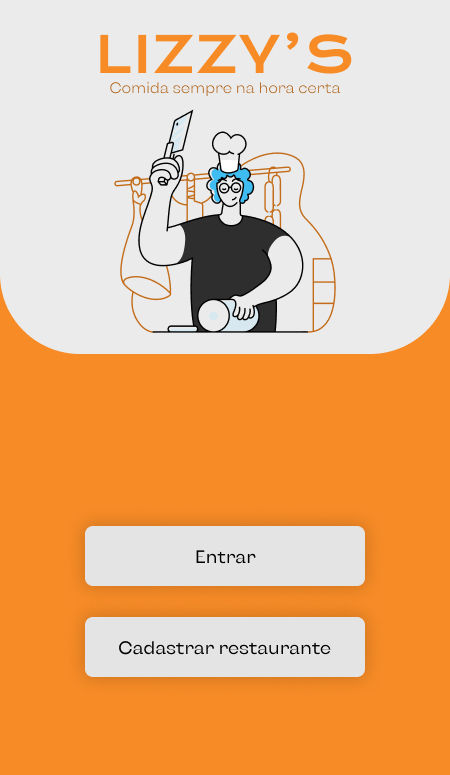
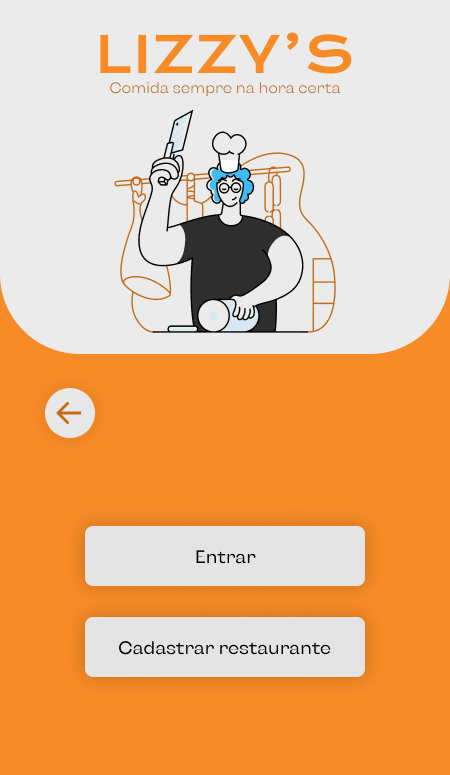
atualizando

Changed region(s): [[0.0933, 0.4955, 0.2178, 0.5884]]

diff --git a/src/EntrarUser.java b/src/EntrarUser.java
@@ -1,7 +1,5 @@
-import Components.Button;
-import Components.Input;
-import Components.Password;
-import Components.Tela;
+import Components.*;
+
 import java.awt.event.ActionEvent;
 import java.awt.event.ActionListener;
 
@@ -12,10 +10,17 @@ public class EntrarUser extends Tela {
         Button btnEntrarUser = new Button();
         Input cpfLogin = new Input();
         Password senhaUserLogin = new Password();
+        ButtonVoltar btnVoltar = new ButtonVoltar();
 
         btnEntrarUser.setBounds(85,627,280,60);
         cpfLogin.setBounds(55,310,350,50);
         senhaUserLogin.setBounds(55,429,342,50);
+        btnVoltar.setLocation(24,18);
+
+        getContentPane().add(btnEntrarUser);
+        getContentPane().add(cpfLogin);
+        getContentPane().add(senhaUserLogin);
+        getContentPane().add(btnVoltar);
 
         btnEntrarUser.addActionListener(new ActionListener() {
             @Override
@@ -39,12 +44,14 @@ public class EntrarUser extends Tela {
                 System.out.println(cpf + senhaUser);
             }
         });
-        getContentPane().add(btnEntrarUser);
-        getContentPane().add(cpfLogin);
-        getContentPane().add(senhaUserLogin);
+
+        btnVoltar.addActionListener(e -> {
+            SelUser selUser = new SelUser();
+            selUser.setVisible(true);
+            System.out.println("to voltando pra tela anterior");
+            dispose();
+        });
     }
 
-    public static void main(String[] args) {
-        new EntrarUser();
-    }
+    public static void main(String[] args) { new EntrarUser(); }
 }

diff --git a/src/EntrarRes.java b/src/EntrarRes.java
@@ -1,7 +1,4 @@
-import Components.Button;
-import Components.Input;
-import Components.Password;
-import Components.Tela;
+import Components.*;
 
 import java.awt.event.ActionEvent;
 import java.awt.event.ActionListener;
@@ -11,13 +8,19 @@ public class EntrarRes extends Tela {
         super("src//imagens//entrarRes.jpg");
 
         Button btnEntrarRes = new Button();
-        btnEntrarRes.setBounds(85,627,280,60);
-//        cadRes.restaurantes.set(i, restaurante);
         Input cnpjLogin = new Input();
         Password senhaRestauranteLogin = new Password();
+        ButtonVoltar btnVoltar = new ButtonVoltar();
 
         cnpjLogin.setBounds(55,310,350,50);
         senhaRestauranteLogin.setBounds(55,429,342,50);
+        btnEntrarRes.setBounds(85,627,280,60);
+        btnVoltar.setLocation(24,18);
+
+        getContentPane().add(btnEntrarRes);
+        getContentPane().add(cnpjLogin);
+        getContentPane().add(senhaRestauranteLogin);
+        getContentPane().add(btnVoltar);
 
         btnEntrarRes.addActionListener(new ActionListener() {
             @Override
@@ -44,9 +47,12 @@ public class EntrarRes extends Tela {
             }
         });
 
-        getContentPane().add(btnEntrarRes);
-        getContentPane().add(cnpjLogin);
-        getContentPane().add(senhaRestauranteLogin);
+        btnVoltar.addActionListener(e -> {
+            selRes selRes = new selRes();
+            selRes.setVisible(true);
+            System.out.println("to voltando pra tela anterior");
+            dispose();
+        });
 
     }
 

diff --git a/src/selRes.java b/src/selRes.java
@@ -1,14 +1,24 @@
 import Components.Button;
+import Components.ButtonVoltar;
 import Components.Tela;
 
 public class selRes extends Tela {
     public selRes(){
         super("src//imagens//selRes.jpg");
+        // nessa tela o restaurante pode escolher entre cadastrar um novo
+        // restaurante ou se já cadastrou entrar na conta
 
         Button btnEntrarSelRes = new Button();
-        btnEntrarSelRes.setBounds(85,509,280,65);
         Button btnCadRes = new Button();
+        ButtonVoltar btnVoltar = new ButtonVoltar();
+
         btnCadRes.setBounds(85,600,280,65);
+        btnEntrarSelRes.setBounds(85,509,280,65);
+        btnVoltar.setLocation(45,388);
+
+        getContentPane().add(btnEntrarSelRes);
+        getContentPane().add(btnCadRes);
+        getContentPane().add(btnVoltar);
 
         btnEntrarSelRes.addActionListener(e -> {
             EntrarRes entrarRes = new EntrarRes();
@@ -24,11 +34,13 @@ public class selRes extends Tela {
             dispose();
         });
 
-        getContentPane().add(btnEntrarSelRes);
-        getContentPane().add(btnCadRes);
+        btnVoltar.addActionListener(e -> {
+            selEntrar selEntrar = new selEntrar();
+            selEntrar.setVisible(true);
+            System.out.println("to voltando pra tela anterior");
+            dispose();
+        });
     }
 
-    public static void main(String[] args) {
-        new selRes();
-    }
+    public static void main(String[] args) { new selRes(); }
 }

diff --git a/src/SelUser.java b/src/SelUser.java
@@ -1,14 +1,24 @@
 import Components.Button;
+import Components.ButtonVoltar;
 import Components.Tela;
 
 public class SelUser extends Tela {
     public SelUser(){
         super("src//imagens//selUser.jpg");
+        // nessa tela o usuario pode escolher entre cadastrar um novo
+        // usuario ou se já cadastrou entrar na conta
 
         Button btnEntrarSelUser = new Button();
-        btnEntrarSelUser.setBounds(85,509,280,65);
         Button btnCadUser = new Button();
+        ButtonVoltar btnVoltar = new ButtonVoltar();
+
         btnCadUser.setBounds(85,600,280,65);
+        btnEntrarSelUser.setBounds(85,509,280,65);
+        btnVoltar.setLocation(45,388);
+
+        getContentPane().add(btnEntrarSelUser);
+        getContentPane().add(btnCadUser);
+        getContentPane().add(btnVoltar);
 
         btnEntrarSelUser.addActionListener(e -> {
             EntrarUser entrarUser = new EntrarUser();
@@ -24,8 +34,12 @@ public class SelUser extends Tela {
             dispose();
         });
 
-        getContentPane().add(btnEntrarSelUser);
-        getContentPane().add(btnCadUser);
+        btnVoltar.addActionListener(e -> {
+            selEntrar selEntrar = new selEntrar();
+            selEntrar.setVisible(true);
+            System.out.println("to voltando pra tela anterior");
+            dispose();
+        });
     }
 
     public static void main(String[] args) {

diff --git a/src/selEntrar.java b/src/selEntrar.java
@@ -1,14 +1,21 @@
 import Components.Button;
+import Components.ButtonVoltar;
 import Components.Tela;
 
 public class selEntrar extends Tela {
     public selEntrar(){
         super("src//imagens//selEntrar.jpg");
+        // nessa tela a pessoa que esta usando o delivery pode selecionar se quer entrar
+        // como restaurante ou como usuario
 
         Button btnSelRes = new Button();
-        btnSelRes.setBounds(85,512,280,60);
         Button btnSelUser = new Button();
+
         btnSelUser.setBounds(85,600,280,60);
+        btnSelRes.setBounds(85,512,280,60);
+
+        getContentPane().add(btnSelRes);
+        getContentPane().add(btnSelUser);
 
         btnSelRes.addActionListener(e -> {
             selRes selRes = new selRes();
@@ -23,9 +30,6 @@ public class selEntrar extends Tela {
             System.out.println("Olá, estou indo para a próxima pagina");
             dispose();
         });
-
-        getContentPane().add(btnSelRes);
-        getContentPane().add(btnSelUser);
     }
 
     public static void main(String[] args) {

diff --git a/src/cadRes.java b/src/cadRes.java
@@ -8,7 +8,10 @@ public class cadRes extends Tela {
         Input posMapaRes = new Input();
         Password senhaRestaurante = new Password();
         Button btnAdicionarRes = new Button();
+
         ButtonVoltar btnVoltar = new ButtonVoltar();
+        btnVoltar.setLocation(24,18);
+        getContentPane().add(btnVoltar);
 
         inputNomeRes.setBounds(54,188,342,50);
         cnpj.setBounds(54,292,342,50);
@@ -16,13 +19,14 @@ public class cadRes extends Tela {
         senhaRestaurante.setBounds(54,499,342,50);
         btnAdicionarRes.setBounds(85,631,280,50);
 
+
         // adiciono os componentes na tela
         getContentPane().add(inputNomeRes);
         getContentPane().add(cnpj);
         getContentPane().add(posMapaRes);
         getContentPane().add(senhaRestaurante);
         getContentPane().add(btnAdicionarRes);
-        getContentPane().add(btnVoltar);
+
 
         btnAdicionarRes.addActionListener(e -> {
             String novoNomeRes = inputNomeRes.getText();

diff --git a/src/CadUser.java b/src/CadUser.java
@@ -40,8 +40,8 @@ public class CadUser extends Tela {
         });
 
         btnVoltar.addActionListener(e -> {
-            selRes selRes = new selRes();
-            selRes.setVisible(true);
+            SelUser selUser = new SelUser();
+            selUser.setVisible(true);
             System.out.println("to voltando pra tela anterior");
             dispose();
         });

diff --git a/src/Components/ButtonVoltar.java b/src/Components/ButtonVoltar.java
@@ -7,6 +7,6 @@ public class ButtonVoltar extends JButton {
         setFocusPainted(false);
         setBorderPainted(false);
         setContentAreaFilled(false);
-        setBounds(24,18,50,50);
+        setSize(50,50); // assim eu preciso passar só a localização
     }
 }
